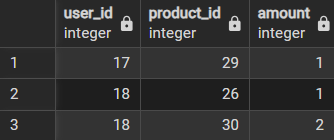
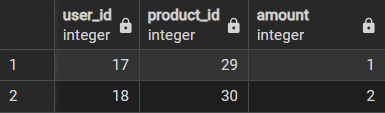
update lab3

diff --git a/lab3/description.md b/lab3/description.md
@@ -43,10 +43,24 @@ update orders set status = 'completed' where order_id = 2
 # Delete-запити 
 ---
 ```sql
-delete from cart_product where user_id = 18
+delete from cart_product where user_id = 18 and product_id = 26
 ```
 ![Before](./screenshots/delete-cp-before.png)
 ![After](./screenshots/delete-cp-after.png)
+---
+Симулювання створення order-запиту
+```sql
+insert into orders (order_date, status, adress, user_id) values
+('2025-11-20', 'waaiting', 'м. Київ, вул. Хрещатик, 21, кв. 5', 17),
+
+insert into order_product (order_id, product_id, amount, price) values
+(7, 26, 1, 50000);
+
+delete from cart_product where user_id = 17;
+```
+![Before](./screenshots/delete-cp-after.png)
+![After](./screenshots/delete-order-create.png)
+
 
 
 ### Список таблиць з стовбцями
